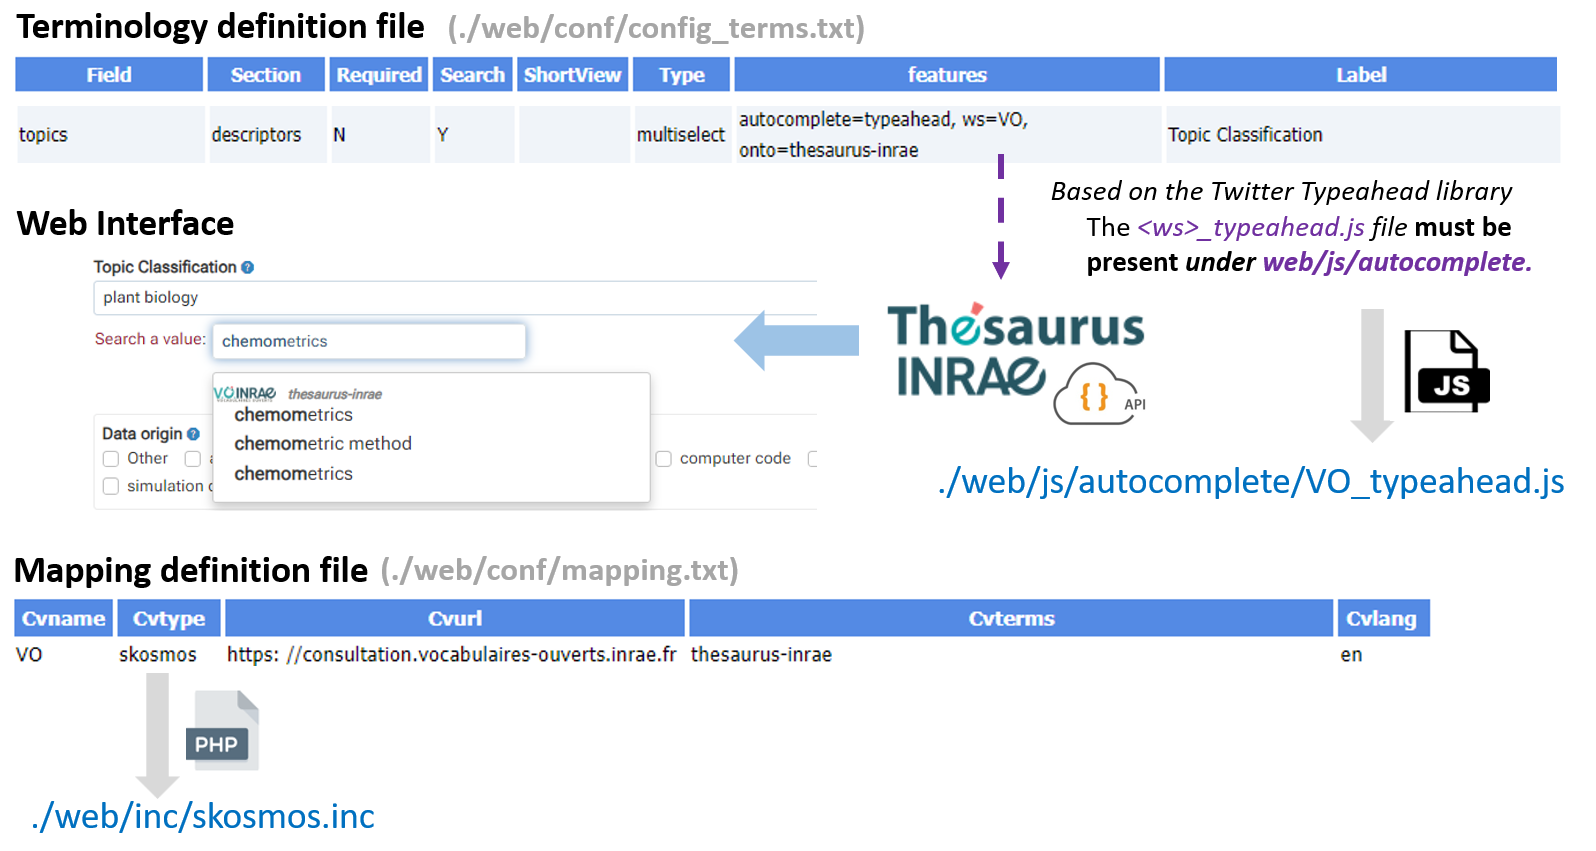
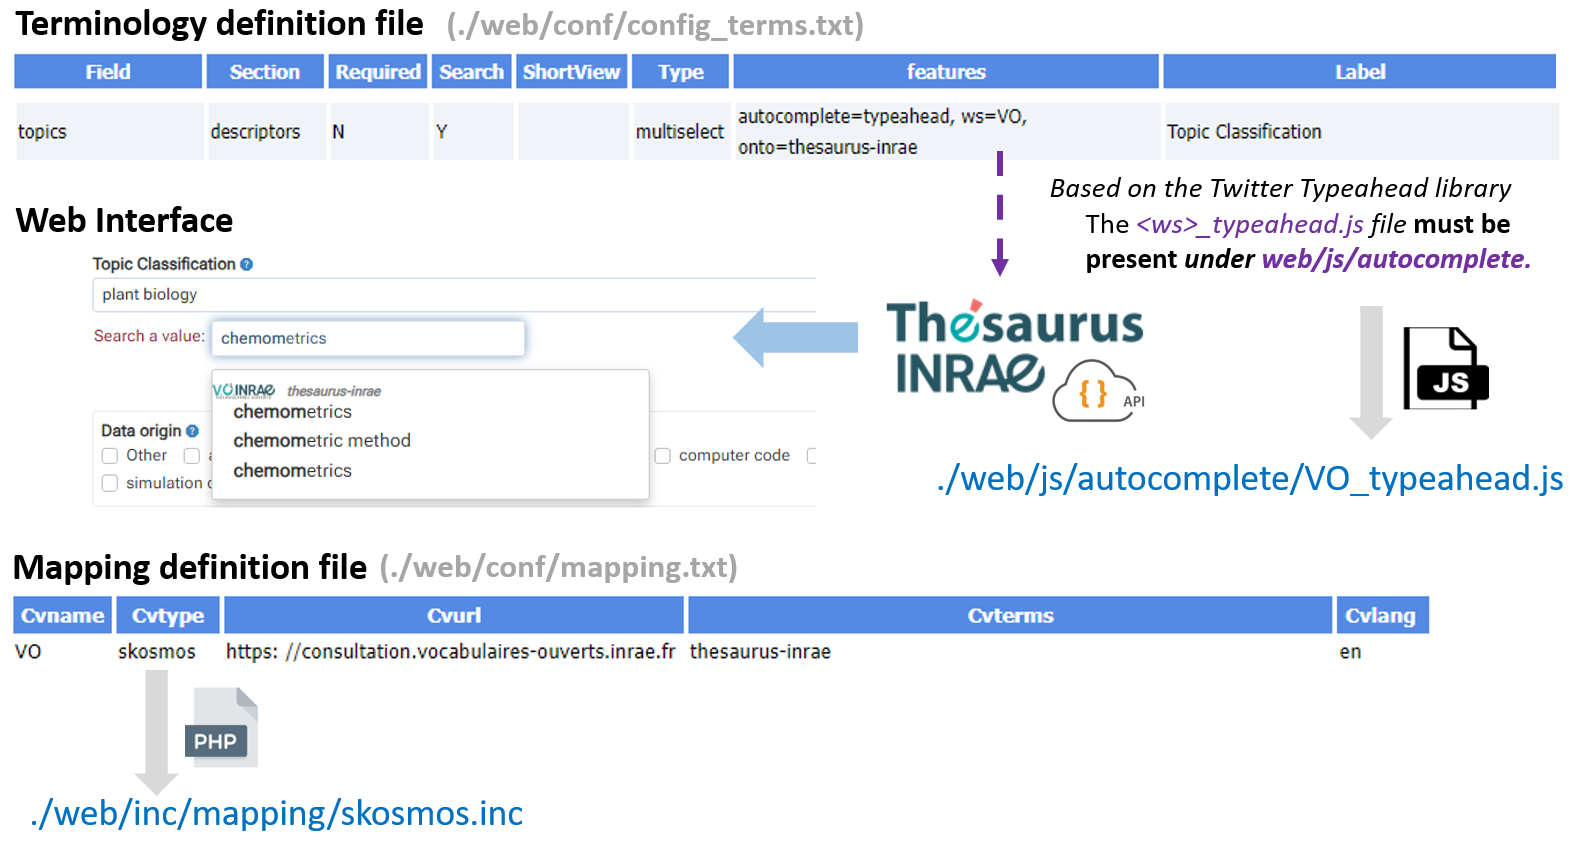
update

diff --git a/docs/definitions/vocabulary.md b/docs/definitions/vocabulary.md
@@ -3,7 +3,7 @@ title: Maggot - Vocabulary
 summary: 
 authors:
     - Daniel Jacob
-date: 2023-10-09
+date: 2024-08-13
 some_url:
 ---
 
@@ -57,9 +57,10 @@ some_url:
 
 **5** - **Multi-select vocabulary, based on an API managed by Twitter's Typeahead library.** (*multiselect*) 
 
-* Maggot embeds [Twitter's Typeahead library][16]{:target="_blank"} making it relatively easy for a data manager to implement a new vocabulary from its web API. To do this, it is necessary to create two scripts (*<ws\>_typeahead.js* and *<wstype\>.inc*) which will each be used at one stage of the process as shown in the following figure:
+* Maggot embeds [Twitter's Typeahead library][16]{:target="_blank"} making it relatively easy for a data manager to implement a new vocabulary from its web API. With the help of this library, this allows users to select a term from a list of vocabulary terms within a drop-down list. The list of terms has been pre-selected based on the first letters entered in the “Search for value” box. This list is dynamically refreshed when letters are added or modified. So, unlike a single call to the API returning the entire list of terms in memory, which can take a very long time to load, the calls are made dynamically on the basis of a portion of a word, thus limiting the number of terms to retrieve. Thus this makes use very fluid.
 
-<br>
+* To immplement an API-based web service, it is necessary to create two scripts (*<ws\>_typeahead.js* and *<wstype\>.inc*) which will each be used at one stage of the process as shown in the following figure:
+
 <center>
 <a href="../../images/vocabulary_fig7.png" data-lightbox="fig7"><img src="../../images/vocabulary_fig7.png" width="600px"></a>
 </center>
@@ -72,12 +73,9 @@ some_url:
 
 * By defaut, Maggot already provides some vocaburay web services implemented in this way such as The [SKOSMOS][6]{:target="_blank"} thesauri, the ontology portals based on [OntoPortal][19]{:target="_blank"} and the [EMBL-EBI Ontology Lookup Service][20]{:target="_blank"}. The figure below shows the configuration in the terminology definition file and the corresponding screenshots for each vocabulary.
 
-* With the help of this library, this allows users to select a term from a list of vocabulary terms within a drop-down list. The list of terms has been pre-selected based on the first letters entered in the “Search for value” box. This list is dynamically refreshed when letters are added or modified. So, unlike a single call to the API returning the entire list of terms in memory, which can take a very long time to load, the calls are made dynamically on the basis of a portion of a word, thus limiting the number of terms to retrieve. Thus this makes use very fluid.
-
 <center>
 <a href="../../images/vocabulary_fig7b.png" data-lightbox="fig7b"><img src="../../images/vocabulary_fig7b.png" width="800px"></a>
 </center>
-<br>
 
 
 1. [AgroPortal][22]{:target="_blank"} and [BioPortal][23]{:target="_blank"} are both based on [OntoPortal][19]{:target="_blank"} which is a generic technology to build ontology repositories or semantic artefact catalogues.
@@ -88,12 +86,18 @@ some_url:
 
 <br>
 
-* Here is, for example, the implementation of the [INRAE Thesaurus][21]{:target="_blank"}, a web service based on [SKOSMOS][6]{:target="_blank"}. The figure below shows in more detail how to fill in the definition files linked to the two scripts necessary for implementing the web service :
+* Here is, for example, the implementation of the [INRAE Thesaurus][21]{:target="_blank"}, a web service based on [SKOSMOS][6]{:target="_blank"}. The figure below shows in more details how to fill in the definition files linked to the two scripts necessary for implementing the web service :
 
 <center>
 <a href="../../images/vocabulary_fig7c.png" data-lightbox="fig7b"><img src="../../images/vocabulary_fig7c.png" width="800px"></a>
 </center>
 <br>
+
+* Links to the two scripts :
+
+    * [web/js/autocomplete/VO_typeahead.js][24]{:target="_blank"}
+	* [web/inc/mapping/skosmos.inc][25]{:target="_blank"}
+
 
 
 *[API]: Application Program Interface in contrast with a User Interface. It is a way for two or more computer programs to communicate with each other. 
@@ -121,3 +125,5 @@ some_url:
 [21]: https://thesaurus.inrae.fr/thesaurus-inrae/en/
 [22]: https://agroportal.lirmm.fr/
 [23]: https://bioportal.bioontology.org/
+[24]: https://github.com/inrae/pgd-mmdt/blob/main/web/js/autocomplete/VO_typeahead.js
+[25]: https://github.com/inrae/pgd-mmdt/blob/main/web/inc/mapping/skosmos.inc

diff --git a/docs/definitions/mapping.md b/docs/definitions/mapping.md
@@ -29,6 +29,9 @@ The file must have ***5 columns*** with headers defined as follows:
    * column 4 - **CVterm** : name of the thesaurus or the ontology list separated by a comma
    * column 5 - **CVlang** : the chosen language (mainly for thesauri)
 
+Note that a corresponding *<CVtype\>.inc* file must be located under *web/inc/mapping*.
+<br>
+
 Below an example of Mapping definition file (TSV)
 
 <center>
